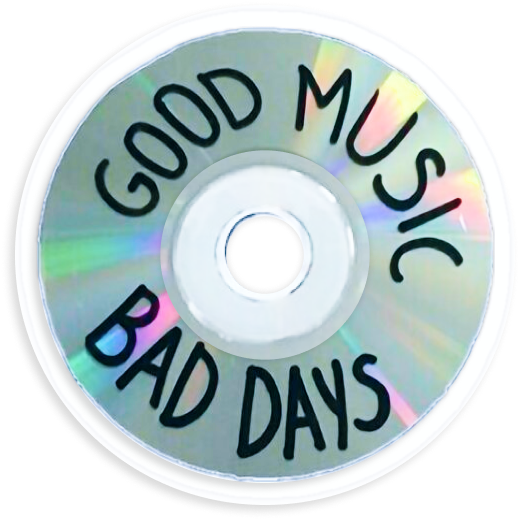
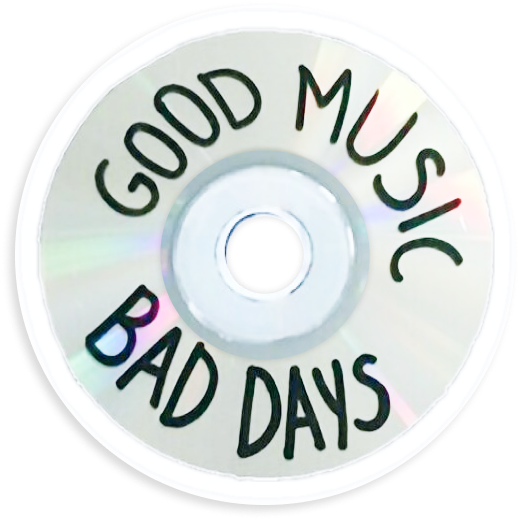
Assigned DomListener to each playlist button. Updated data.js and added new images for CDs.

diff --git a/src/pages/mainBackup.js b/src/pages/mainBackup.js
@@ -3,7 +3,12 @@ import { createPlaylistsElement } from "../views/playlistsView.js";
 import { createMusicPlayerElement } from "../views/musicPlayerView.js";
 import { musicData } from "../data.js";
 
-export const initMusicPlayer = () => {
+export async function initMain() {
+  await initMusicPlayer();
+  await activatePlaylistsButtons();
+};
+
+async function initMusicPlayer() {
   musicData.currentPlaylistIndex = 0;
   const currentPlaylist = musicData.playlists[musicData.currentPlaylistIndex];
 
@@ -22,30 +27,33 @@ export const initMusicPlayer = () => {
   const musicPlayerElement = createMusicPlayerElement(currentPlaylist);
   musicPlayerContainer.appendChild(musicPlayerElement);
 
-  //TODO Assign DOMlisteners to Playlists Buttons
-  const playlistsButtons = [...document.getElementsByClassName("playlist-option")];
-  const availablePlaylists = musicData.playlists;
-
-  playlistsButtons.forEach((button) => {
-    button.addEventListener("click", () => {
-      availablePlaylists.filter((playlist) => {
-        if (playlist.playlistName === button.id) {
-          // console.log(playlist.playlistName);
-          musicData.currentPlaylistIndex = playlist.index;
-          const newCurrentPlaylist = availablePlaylists[playlist.index];
-          
-          const musicPlayer = document.getElementById("musicPlayer");
-          musicPlayer.remove();
-          
-          const newMusicPlayerElement = createMusicPlayerElement(newCurrentPlaylist);
-          musicPlayerContainer.appendChild(newMusicPlayerElement);
-        }
-      })
-    });
-  });
 };
 
 // TODO Evaluate if this is working as expected?
 document.addEventListener("DOMContentLoaded", () => {
   initMusicPlayer();
 });
+
+//TODO Assign DOMlisteners to Playlists Buttons
+async function activatePlaylistsButtons() {
+  const playlistsButtons = [...document.getElementsByClassName("playlist-option")];
+  const availablePlaylists = musicData.playlists;
+
+  playlistsButtons.forEach((button) => {
+    button.addEventListener("click", () => {
+      availablePlaylists.forEach((playlist) => {
+        if (playlist.playlistName === button.id) {
+          // console.log(playlist.playlistName);
+          musicData.currentPlaylistIndex = playlist.index;
+          const newCurrentPlaylist = availablePlaylists[playlist.index];
+          
+          const musicPlayer = document.getElementById(musicPlayer);
+          musicPlayer.remove;
+          
+          const newMusicPlayerElement = createMusicPlayerElement(newCurrentPlaylist);
+          musicPlayerContainer.appendChild(newMusicPlayerElement);
+        };
+      });
+    });
+  });
+};

diff --git a/src/data.js b/src/data.js
@@ -27,7 +27,7 @@ export const musicData = {
       artistId: "73aKnLT4O8G2pBEfdlQzrE",
       playlistName: "Purrple Cat",
       cdImage: "public/assets/images/CDs/disc2.png",
-      songs: {
+      tracks: {
         1: "public/assets/music/2 - Purrple Cat/1 - Storm Clouds.mp3",
         2: "public/assets/music/2 - Purrple Cat/2 - Journey's End.mp3",
         3: "public/assets/music/2 - Purrple Cat/3 - Signs of Life.mp3",
@@ -46,8 +46,8 @@ export const musicData = {
       index: 2,
       artistId: "1mIePRs1ixMW0gTaTSbX2p",
       playlistName: "Ghostrifter Official!",
-      cdImage: "public/assets/images/CDs/disc1.png",
-      songs: {
+      cdImage: "public/assets/images/CDs/disc3.png",
+      tracks: {
         1: "public/assets/music/3 - Ghostrifter Official/1 - Morning Routine [Lofi Study Music].mp3",
         2: "public/assets/music/3 - Ghostrifter Official/2 - Purple Dream.mp3",
         3: "public/assets/music/3 - Ghostrifter Official/3 - Downtown Glow (Ghostrifter Official & Devyzed).mp3",
@@ -63,8 +63,8 @@ export const musicData = {
       index: 3,
       artistId: "4SYTMJWp1zw7CeOqO6Nk2K",
       playlistName: "CMT8 OCT2023",
-      cdImage: "public/assets/images/CDs/disc1.png",
-      songs: {
+      cdImage: "public/assets/images/CDs/disc4.png",
+      tracks: {
         1: "public/assets/music/4 - CMT8/1 - Sleepy cat.mp3",
         2: "public/assets/music/4 - CMT8/2 - Empty mind.mp3",
         3: "public/assets/music/4 - CMT8/3 - Go home.mp3",
@@ -79,8 +79,8 @@ export const musicData = {
       index: 4,
       artistId: "5VWxPzSlM3bEky01nXffoN",
       playlistName: "Oleg SoulProdMusic",
-      cdImage: "public/assets/images/CDs/disc1.png",
-      songs: {
+      cdImage: "public/assets/images/CDs/disc5.png",
+      tracks: {
         1: "public/assets/music/5 - SoulProdMusic/1 - Aesthetics.mp3",
         2: "public/assets/music/5 - SoulProdMusic/2 - Oktober [Lofi Jazzy beat].mp3",
         3: "public/assets/music/5 - SoulProdMusic/3 - Old clock [chill lofi beats].mp3",

diff --git a/src/pages/mainBackup2.js b/src/pages/mainBackup2.js
@@ -3,7 +3,12 @@ import { createPlaylistsElement } from "../views/playlistsView.js";
 import { createMusicPlayerElement } from "../views/musicPlayerView.js";
 import { musicData } from "../data.js";
 
-export const initMusicPlayer = () => {
+export async function initMain() {
+  await initMusicPlayer();
+  await activatePlaylistsButtons();
+};
+
+async function initMusicPlayer() {
   musicData.currentPlaylistIndex = 0;
   const currentPlaylist = musicData.playlists[musicData.currentPlaylistIndex];
 
@@ -22,13 +27,21 @@ export const initMusicPlayer = () => {
   const musicPlayerElement = createMusicPlayerElement(currentPlaylist);
   musicPlayerContainer.appendChild(musicPlayerElement);
 
-  //TODO Assign DOMlisteners to Playlists Buttons
+};
+
+// TODO Evaluate if this is working as expected?
+document.addEventListener("DOMContentLoaded", () => {
+  initMain();
+});
+
+//TODO Assign DOMlisteners to Playlists Buttons
+async function activatePlaylistsButtons() {
   const playlistsButtons = [...document.getElementsByClassName("playlist-option")];
   const availablePlaylists = musicData.playlists;
 
   playlistsButtons.forEach((button) => {
     button.addEventListener("click", () => {
-      availablePlaylists.filter((playlist) => {
+      availablePlaylists.forEach((playlist) => {
         if (playlist.playlistName === button.id) {
           // console.log(playlist.playlistName);
           musicData.currentPlaylistIndex = playlist.index;
@@ -39,13 +52,8 @@ export const initMusicPlayer = () => {
           
           const newMusicPlayerElement = createMusicPlayerElement(newCurrentPlaylist);
           musicPlayerContainer.appendChild(newMusicPlayerElement);
-        }
-      })
+        };
+      });
     });
   });
 };
-
-// TODO Evaluate if this is working as expected?
-document.addEventListener("DOMContentLoaded", () => {
-  initMusicPlayer();
-});

diff --git a/src/views/playlistsView.js b/src/views/playlistsView.js
@@ -30,6 +30,12 @@ const createButtonElement = (playlistObject) => {
         <img src="${cdCaseImage}" alt="${playlistObject.playlistName}" />
     </div>`;
 
+  //TODO Assign DOMlisteners to Playlists Buttons
+  // buttonElement.addEventListener("click", () => {
+  //   musicData.currentPlaylistIndex = playlist.index;
+  //   console.log(playlist.index);
+  // });
+
   return buttonElement;
 };
 

diff --git a/src/views/musicPlayerView.js b/src/views/musicPlayerView.js
@@ -3,7 +3,7 @@
 // Create the welcome screen
 export const createMusicPlayerElement = (playlist) => {
   const element = document.createElement("div");
-  element.id = "music-player";
+  element.id = "musicPlayer";
 
   // const cdPlayerImage = "public/assets/images/cd-player.png";
   const playButtonImg = "public/assets/images/play.png";

diff --git a/public/styles/style.css b/public/styles/style.css
@@ -52,7 +52,7 @@ body {
 }
 
 /* Music Player Element - musicPlayerView */
-#music-player {
+#musicPlayer {
   border: red 10px solid;
   grid-area: music-player;
   width: 90%;
